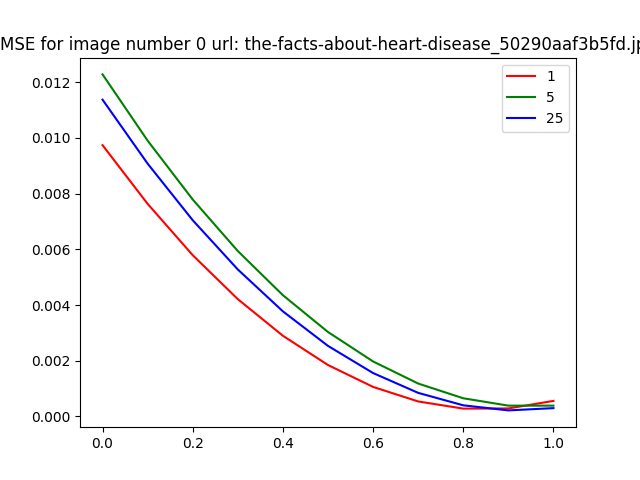
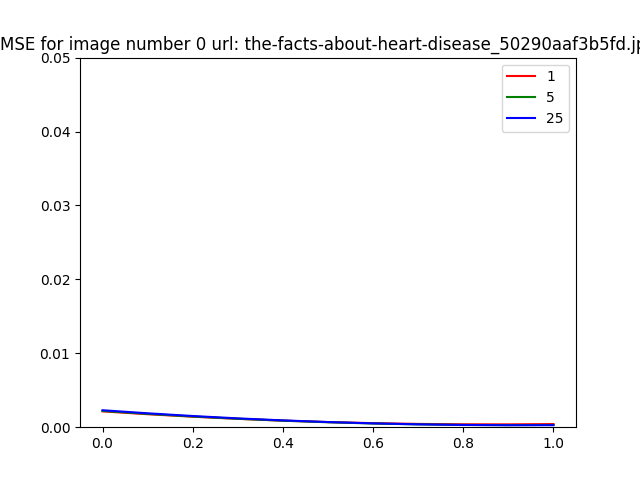
playing with minimizing loss more

diff --git a/minimize_divergence.py b/minimize_divergence.py
@@ -106,8 +106,8 @@ def get_image():
         if len(stuff) >=5:
             id_ = url_to_id[stuff[0]]
             images[id_][int(stuff[2])]+= 5
-            images[id_][int(stuff[3])]+= 4
-            images[id_][int(stuff[4])]+= 1
+            images[id_][int(stuff[3])]+= 0
+            images[id_][int(stuff[4])]+= 0
     for im, dist in images.items():
         images[im] = Dist(dist)
         images[im].renormalize()
@@ -170,6 +170,7 @@ for im in range(NUM_IMAGES):
     plt.plot(alpha_values, alphas_i_mse[im][1], label='1', color='red')
     plt.plot(alpha_values, alphas_i_mse[im][5], label='5', color='green')
     plt.plot(alpha_values, alphas_i_mse[im][25], label='25', color='blue')
+    plt.ylim(0, .05)
     plt.legend()
     plt.plot()
     plt.savefig(f'results/mse_im{im}.png')
@@ -193,6 +194,7 @@ colors = ['red', 'green', 'orange', 'blue', 'gray', 'purple']
 for j, i in enumerate(INTERVALS):
     # print(f'{opt_alphas_div[i]} is optimal for {i} seconds with divergence loss')
     print(f'{opt_alphas_mse[i]} is optimal for {i} seconds with mse loss')
+    print(f'mse: {loss(text_dist, image_dist, human[i], opt_alphas_mse[i], list(range(NUM_IMAGES)), mse)}')
     plt.plot(alpha_values, alphas_div[i], label=f'{i} div', color=colors[j])
     plt.plot(alpha_values, alphas_mse[i], label=f'{i} mse', color=colors[-j-1])
 plt.legend()
